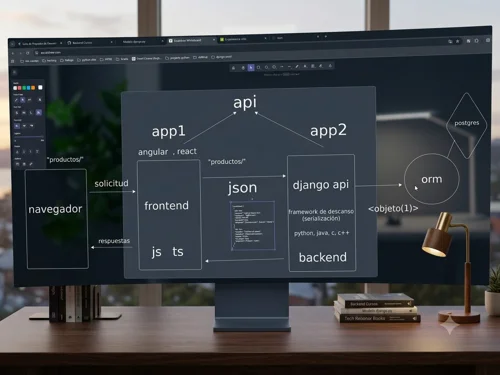
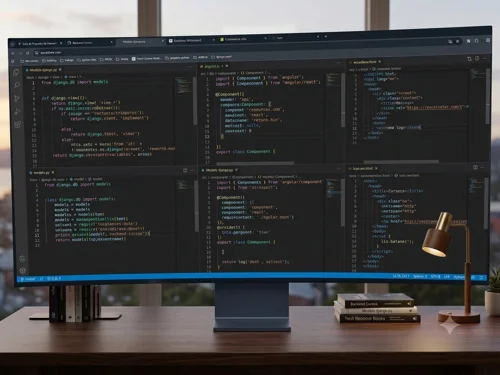
feat: nueva imagen de perfil

diff --git a/index.html b/index.html
@@ -122,7 +122,9 @@
           <span class="text-emerald-600 dark:text-emerald-400">#</span> Sobre mí
         </h2>
         <div class="text-gray-600 dark:text-gray-400 space-y-4 mb-10 text-center leading-relaxed">
-          <p>Ingeniero en Informática y Contador especializado en desarrollo web. Tras años optimizando la administración y operaciones de empresas, hoy traduzco esa experiencia en la creación de aplicaciones web eficientes, funcionales y alineadas con los objetivos financieros y operativos de cada negocio.</p>
+          <p>Ingeniero en Informática y Contador con experiencia previa en administración y finanzas. Tras años optimizando procesos empresariales, hoy me he reencantado con el desarrollo web, traduciendo esa visión de negocio en la creación de aplicaciones funcionales y eficientes.
+
+Me especializo en construir soluciones web ordenadas, alineadas con los objetivos operativos y financieros de cada proyecto. Busco integrarme a un equipo tecnológico donde pueda aportar mi madurez laboral, mi capacidad de organización y seguir creciendo como desarrollador.</p>
         </div>
         <h3 class="text-xl font-semibold mb-6 text-center">Tecnologías</h3>
         <div class="flex flex-wrap gap-3 justify-center">